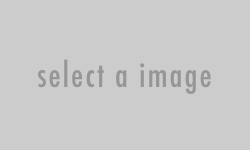
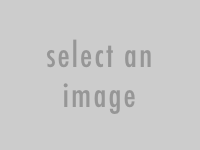
change placeholder images; update styles

Changed region(s): [[0.15, 0.2667, 0.84, 0.7733]]

diff --git a/src/components/ImagePicker.js b/src/components/ImagePicker.js
@@ -1,8 +1,8 @@
 import React from 'react';
 
-const handleImageChange = (e, setImageURL) => {
-  // e.preventDefault();
+import './ImagePicker.scss';
 
+const handleImageChange = (e, setImageURL) => {
   const reader = new FileReader();
   const file = e.target.files[0];
 
@@ -11,7 +11,11 @@ const handleImageChange = (e, setImageURL) => {
 };
 
 const ImagePicker = props =>
-  <input type="file" onChange={(e) => handleImageChange(e, props.setImageURL)} />;
+  <input
+    type="file"
+    className="image-chooser"
+    onChange={(e) => handleImageChange(e, props.setImageURL)}
+  />;
 
 export default ImagePicker;
 

diff --git a/src/components/Image.scss b/src/components/Image.scss
@@ -8,7 +8,8 @@
 .image {
   height: 150px;
   width: auto;
-  border-radious: 2px;
+  max-width: 200px;
+  border-radius: 2px;
 }
 .rotate {
   transform: rotate(75deg);
@@ -24,7 +25,15 @@
 }
 
 .bounce {
+  position: relative;
+  animation: bounce 0.5s ease-in-out;
 }
 
-.reset {
+@keyframes bounce {
+  0%, 70% {bottom: 5px;}
+  10%, 40%, 80% {bottom: 15px;}
+  20% {bottom: 20px;}
+  30%, 90% {bottom: 35px;}
+  50% {bottom: -10px;}
+  60%, 100% {bottom: 0px;}
 }

diff --git a/src/components/ImagePicker.scss b/src/components/ImagePicker.scss
@@ -1,0 +1,5 @@
+.image-chooser {
+  margin: 20px;
+  border: 1px solid lightgrey;
+  padding: 10px;
+}
